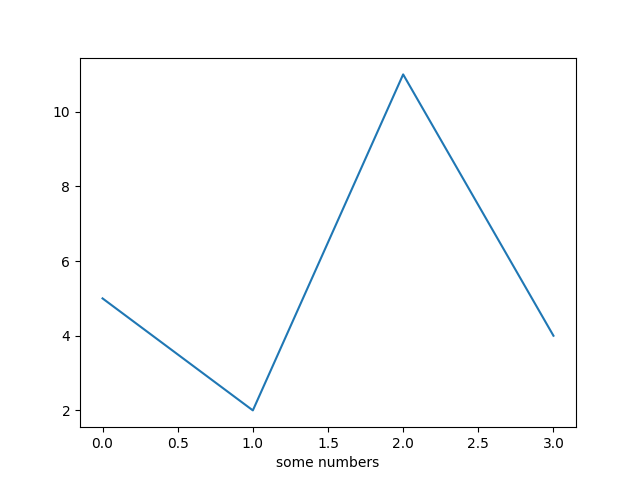
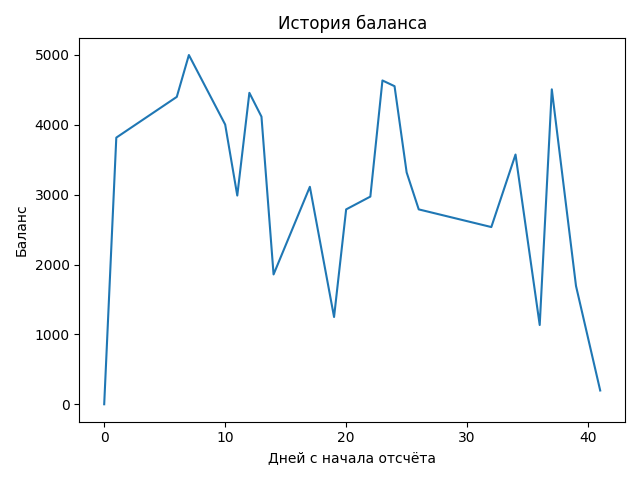
Graph of balance h

diff --git a/shiki/extensions/main/economy.py b/shiki/extensions/main/economy.py
@@ -40,6 +40,7 @@ cfg = tools.load_data('./settings/config')
 users = db.connect().get_database('shiki').get_collection('users')
 plugin = lightbulb.Plugin("Economy")
 currency_emoji = cfg['emojis']['currency']
+emoji_denied = cfg['emojis']['access_denied']
 
 
 @plugin.command
@@ -177,6 +178,14 @@ async def dice(ctx: lightbulb.SlashContext):
     user_data = db.find_document(users, {'_id': user.id})
     newbalance = user_data['money'] - ctx.options.bet
 
+    if(newbalance < 0):
+        await ctx.respond(embed=hikari.Embed(
+            title='Недостаточно средств',
+            description='Вы не можете поставить больше, чем у вас на балансе',
+            color=shiki.Colors.ERROR
+        ).set_footer(text=f'{emoji_denied} Недостаточно средств'))
+        return
+
     if(r_dice == ctx.options.dice):
         # Ставка сыграла
         newbalance += ctx.options.bet * 6
@@ -197,9 +206,9 @@ async def dice(ctx: lightbulb.SlashContext):
     db.update_document(users, {'_id': user.id}, {'money': newbalance})
 
     if(ctx.options.bet >= 1000):
-        await tools.add_xp(user, 5, ctx)
+        await tools.add_xp(user, 50, ctx)
     else:
-        await tools.add_xp(user, 1, ctx)
+        await tools.add_xp(user, 10, ctx)
 
 
 @economy.child
@@ -222,7 +231,7 @@ async def daily(ctx: lightbulb.SlashContext):
             description=f'Вы получили свой ежедневный бонус: {bonus}{currency_emoji}.',
             color=shiki.Colors.SUCCESS
         ).set_footer(text=str(user.username), icon=user.display_avatar_url.url))
-        await tools.add_xp(user, 10, ctx)
+        await tools.add_xp(user, 50, ctx)
     else:
         time_left = timedelta(days=1) - (datetime.now() - data['last_daily'])
         await ctx.respond(embed=hikari.Embed(
@@ -234,14 +243,26 @@ async def daily(ctx: lightbulb.SlashContext):
 
 @economy.child
 @lightbulb.command(
-    'test',
-    'Test command',
+    'statistic',
+    'Показывает статистику вашего баланса в течении времени',
     auto_defer=True
 )
 @lightbulb.implements(lightbulb.SlashSubCommand)
-async def graph(ctx: lightbulb.SlashContext):
-    plt.plot([5, 2, 11, 4])
-    plt.xlabel('some numbers')
+async def statistic(ctx: lightbulb.SlashContext):
+    user = ctx.author
+    data = db.find_document(users, {'_id': user.id})
+    x = [0]
+    y = [0]
+    for sdata in data['money_track']['history']:
+        x.append(sdata['time'])
+        y.append(sdata['balance'])
+    y[-1] = data['money']
+    graph, plot2 = plt.subplots(1)
+    plot2.plot(x, y)
+    plot2.set_title("История баланса")
+    plot2.set_xlabel('Дней с начала отсчёта')
+    plot2.set_ylabel('Баланс')
+    graph.tight_layout()
     plt.savefig('graphs/graph.png')
     f = hikari.File('./graphs/graph.png')
     await ctx.respond(f)

diff --git a/shiki/utils/db.py b/shiki/utils/db.py
@@ -63,7 +63,13 @@ def find_document(collection, elements, multiple=False):
 
 
 def update_document(collection, query_elements, new_values, reset=False):
-    """ Function to update a single document in a collection."""
+    """ Function to update a single document in a collection and track some updates."""
+    track(collection, query_elements, new_values, reset=False)
+    collection.update_one(query_elements, {'$set': new_values})
+
+
+def track(collection, query_elements, new_values, reset=False):
+    """ Track for balance updates."""
     if(reset == False) and\
       (query_elements['_id']) and\
       (new_values['money']):
@@ -75,7 +81,6 @@ def update_document(collection, query_elements, new_values, reset=False):
             list['history'].append({"time": time_since_start,
                                     "balance": new_values['money']})
         new_values['money_track'] = list
-    collection.update_one(query_elements, {'$set': new_values})
 
 
 def delete_document(collection, query):
